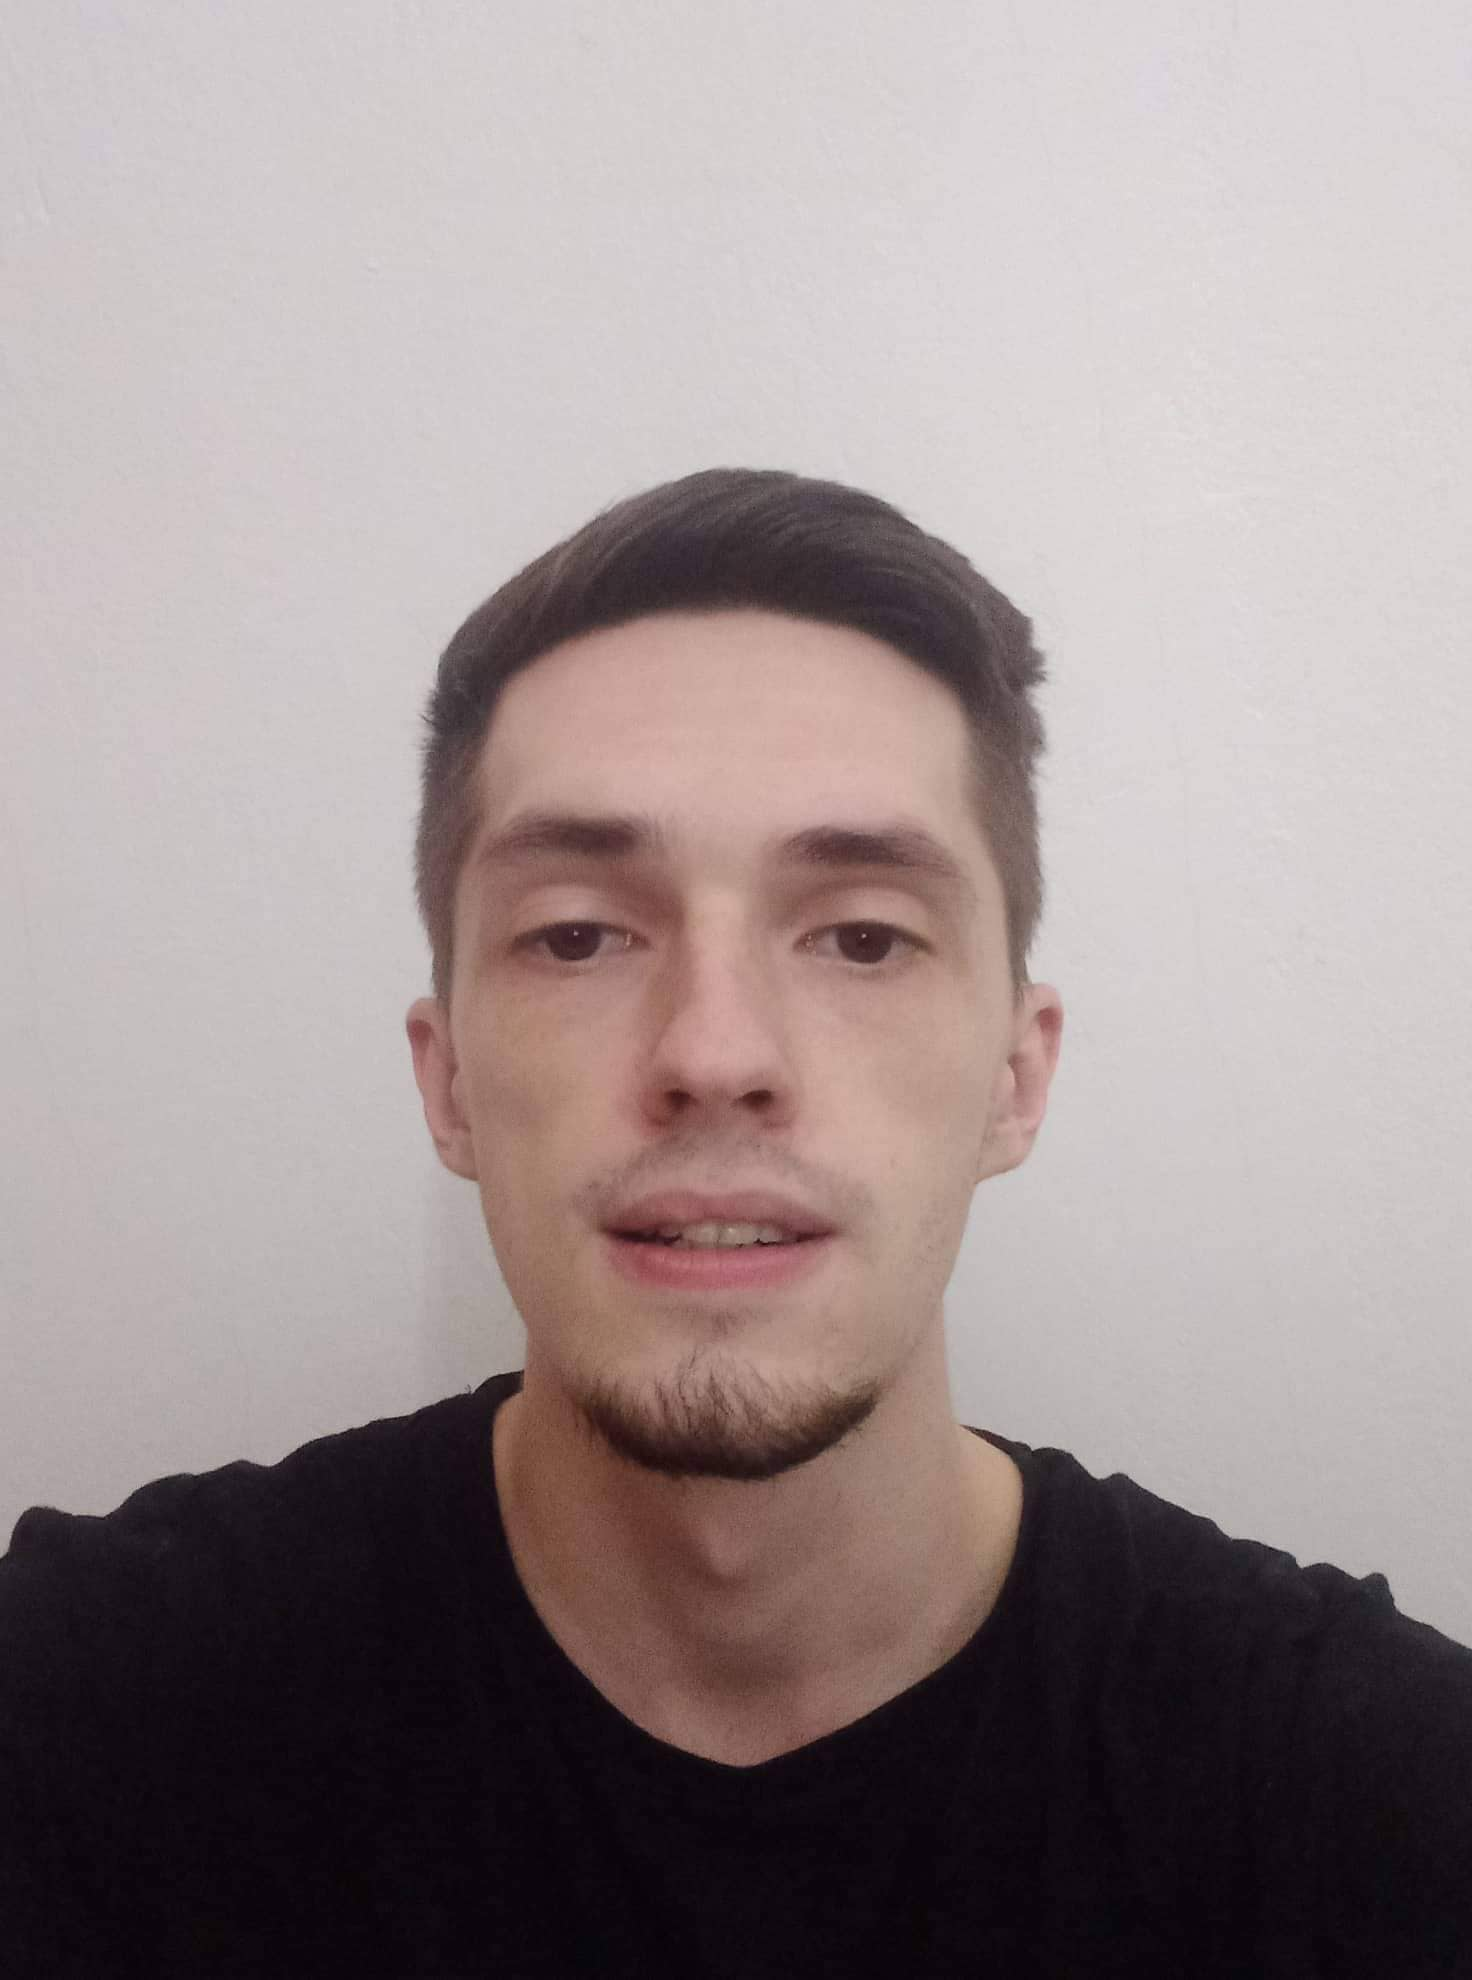
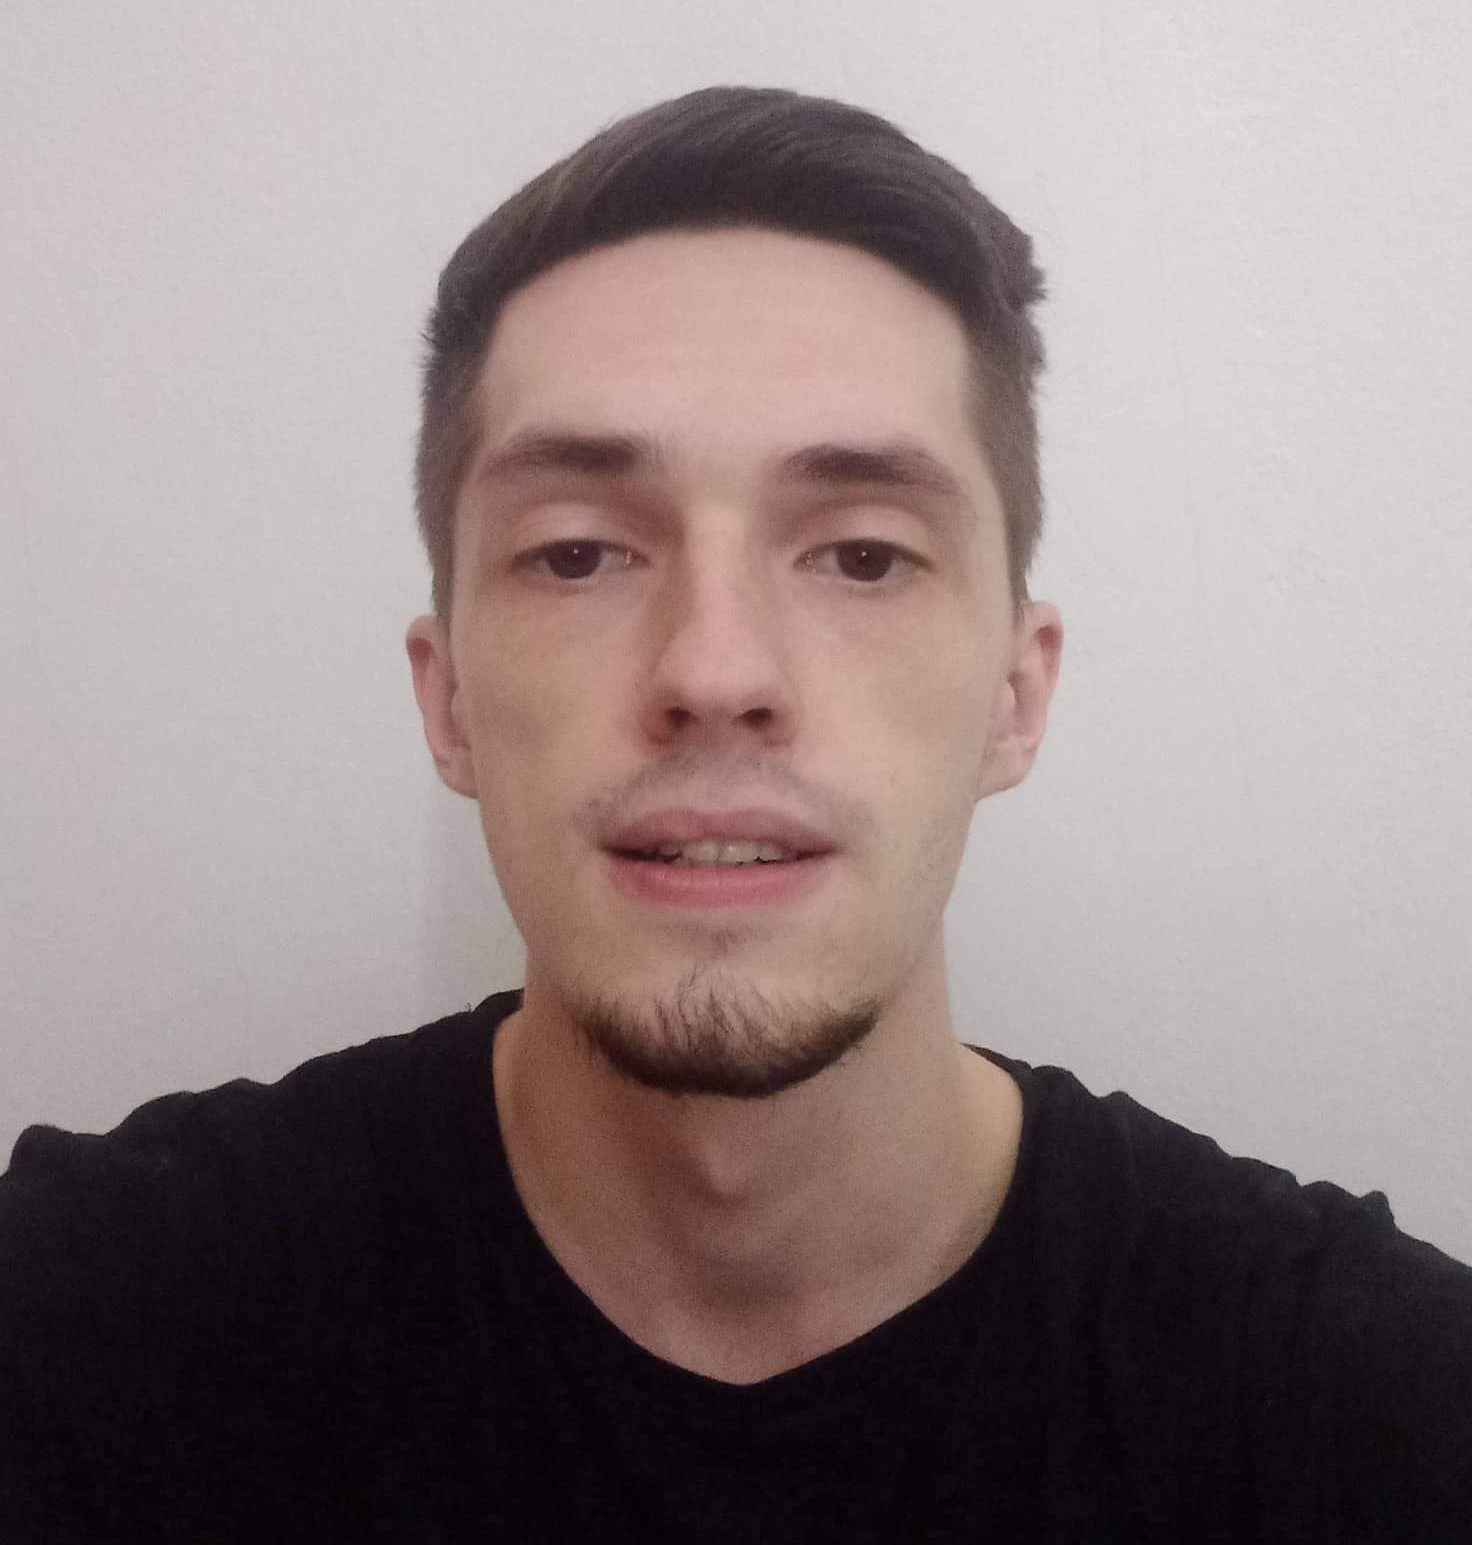
Image size changes

Changed region(s): [[0.0, 0.0311, 1.0, 0.8699], [0.4688, 0.8699, 0.5312, 0.901]]

diff --git a/src/pages/about/about.js b/src/pages/about/about.js
@@ -100,7 +100,7 @@ const teamMembers = [
 
 teamMembers.forEach((el) => {
    team.innerHTML += `<div class="team" width="100" height="200">             
-               <img class="member-image" src=${el.Img} alt="" width="200" height="250"/>
+               <img class="member-image" src=${el.Img} alt="" width="200" height="auto"/>
                 <h3 class="name">${el.Name}</h3>
                 <div class="design">${el.Role}</div>
                 <div class="desc">${el.Desc}</div>

diff --git a/src/assets/styles/about.css b/src/assets/styles/about.css
@@ -73,7 +73,7 @@
 .member-image {
    width: 100%;
    max-width: 300px;
-   min-width: 200px;
+   margin: auto;
    height: 200;
    border-radius: 50px;
 }
